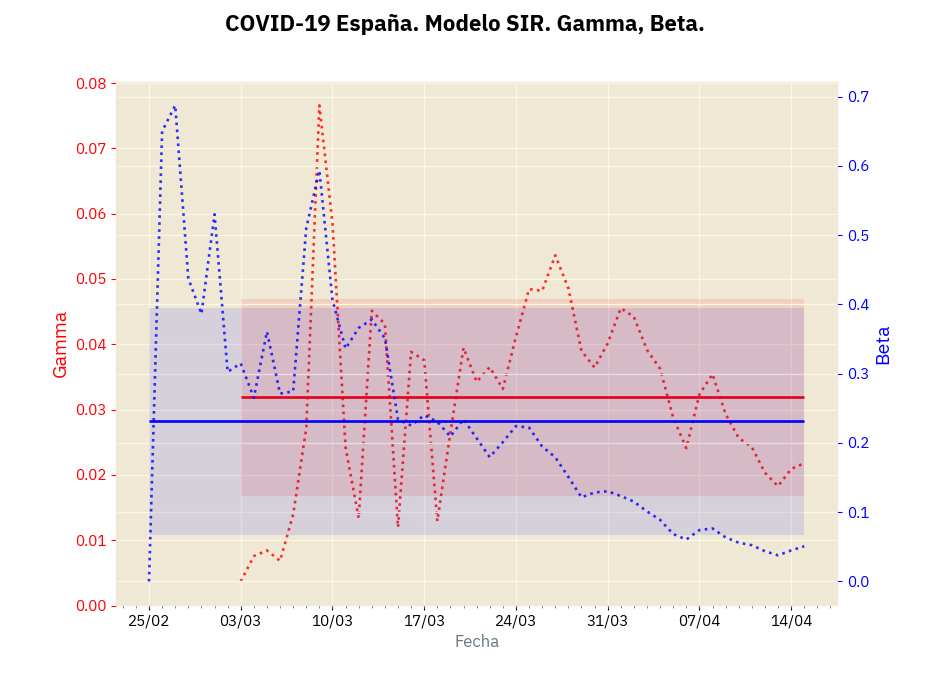
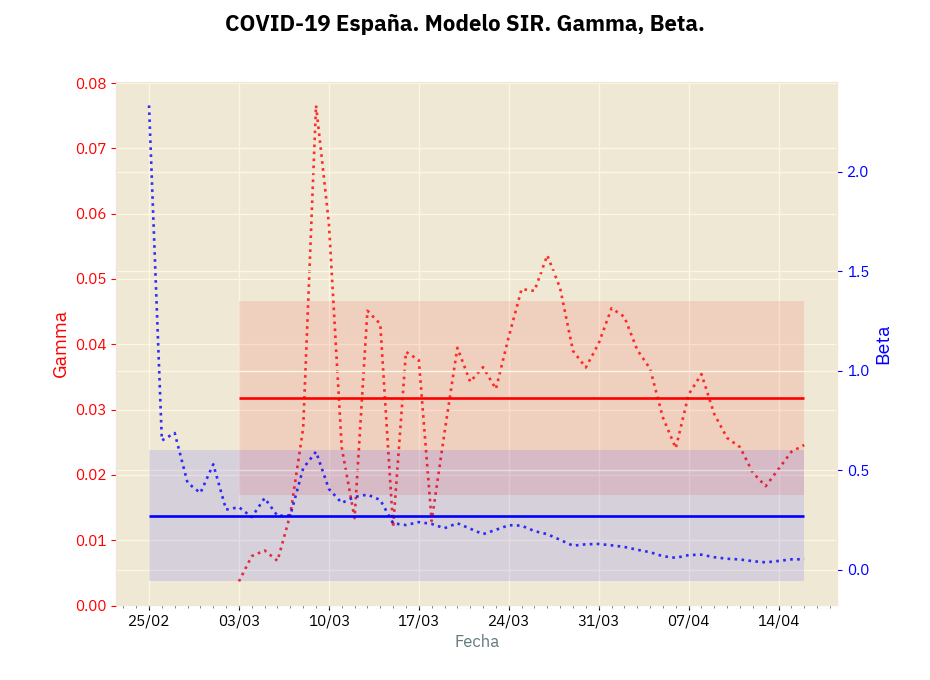
Simplificando

diff --git a/sir.py b/sir.py
@@ -68,45 +68,6 @@ def readCSV():
     data = data.fillna(0)
     return data
 
-## Suma
-def sumSeries(a,b):
-    """
-    Dadas dos series pandas, las suma
-    """
-    result = []
-    for index, aa in a.iteritems():
-        result.append(aa + b.iloc[index])
-    return result
-
-## Calcula la "derivada" de un vector.
-def dFdt(F):
-    """
-    Calcula la derivada de un vector.
-    Se aproxima la derivada por incrementos de la función en un
-    período de tiempo "dt" que es, obviamente, un día.
-    O sea: dFdt ~ (F(t+1) - F(t)) / ((t+1)-t) = F(t+1) - F(t)
-    """
-    dfdt = [0]
-    for i in range(1,len(F)):
-        if i == 0:
-            dfdt.append(F[1]-F[0])
-        elif i == len(F)-1:
-            dfdt.append(F[len(F)-1]-F[len(F)-2])
-        else:
-            dfdt.append(0.5*(F[i+1] - F[i-1]))
-    return dfdt
-
-## Conversión de fechas
-def dates(x):
-    """
-    Dada una serie pandas de timestamps, esta
-    función convierte los timestamps a fechas.
-    """
-    xx = []
-    for index, date in x.iteritems():
-        xx.append(date.date())
-    return xx
-
 ## Cálculo de parámetros del modelo SIR
 # (1) N = S + I + R  (N: Número total de personas)
 # (2) dS/dt = - beta S I / N
@@ -194,7 +155,7 @@ download(NACIONAL_URL, NACIONAL_FILE)
 data = readCSV()
 
 ## Convertir los timestamps a fechas para pintar
-x = dates(data[COL_FECHA])
+x = data[COL_FECHA].apply(lambda x: x.date())
 
 ## Obtener los casos totales, las altas y los fallecimientos
 casos = data[COL_CASOS]
@@ -207,21 +168,19 @@ muertes = data[COL_MUERTES]
 I = casos
 
 ## R: Recuperados, esto es la suma de las altas y los fallecimientos
-R = sumSeries(altas, muertes)
+R = altas + muertes 
 
 ## S: Los que no son ni I ni R (los "infectables")
-S = []
-for index in range(len(I)):
-    S.append(N - I[index] - R[index])
+S = N - I - R
 
 ## dI/dt: Aproximación de la derivada de I con incrementos diarios en I
-dIdt = dFdt(I)
+dIdt = numpy.gradient(I) 
 
 ## dR/dt: Aproximación de la derivada de R con incrementos diarios en R
-dRdt = dFdt(R)
+dRdt = numpy.gradient(R)
 
 ## dS/dt: Aproximación de la derivada de S con incrementos diarios en S
-dSdt = dFdt(S)
+dSdt = numpy.gradient(S)
 
 ## Preparar el gráfico
 pyplot.style.use('Solarize_Light2')
@@ -309,7 +268,7 @@ subplot.xaxis.set_minor_locator(mdates.DayLocator())
 subplot.tick_params(axis='x', color='black', labelsize='11', labelcolor='black')
 subplot.tick_params(axis='y', color='red', labelsize='11', labelcolor='red')
 subplot.plot(xxxx, R0, linewidth=1.9, color='red', alpha=1, label='R0')
-subplot.set_ylim([0,15])
+subplot.set_ylim([0,10])
 subplot.set_ylabel('R0')
 
 pyplot.suptitle("COVID-19 España. Modelo SIR. R0.", fontweight='bold', color='black', fontsize=16) #fontsize=12, fontweight=400, color='black')
